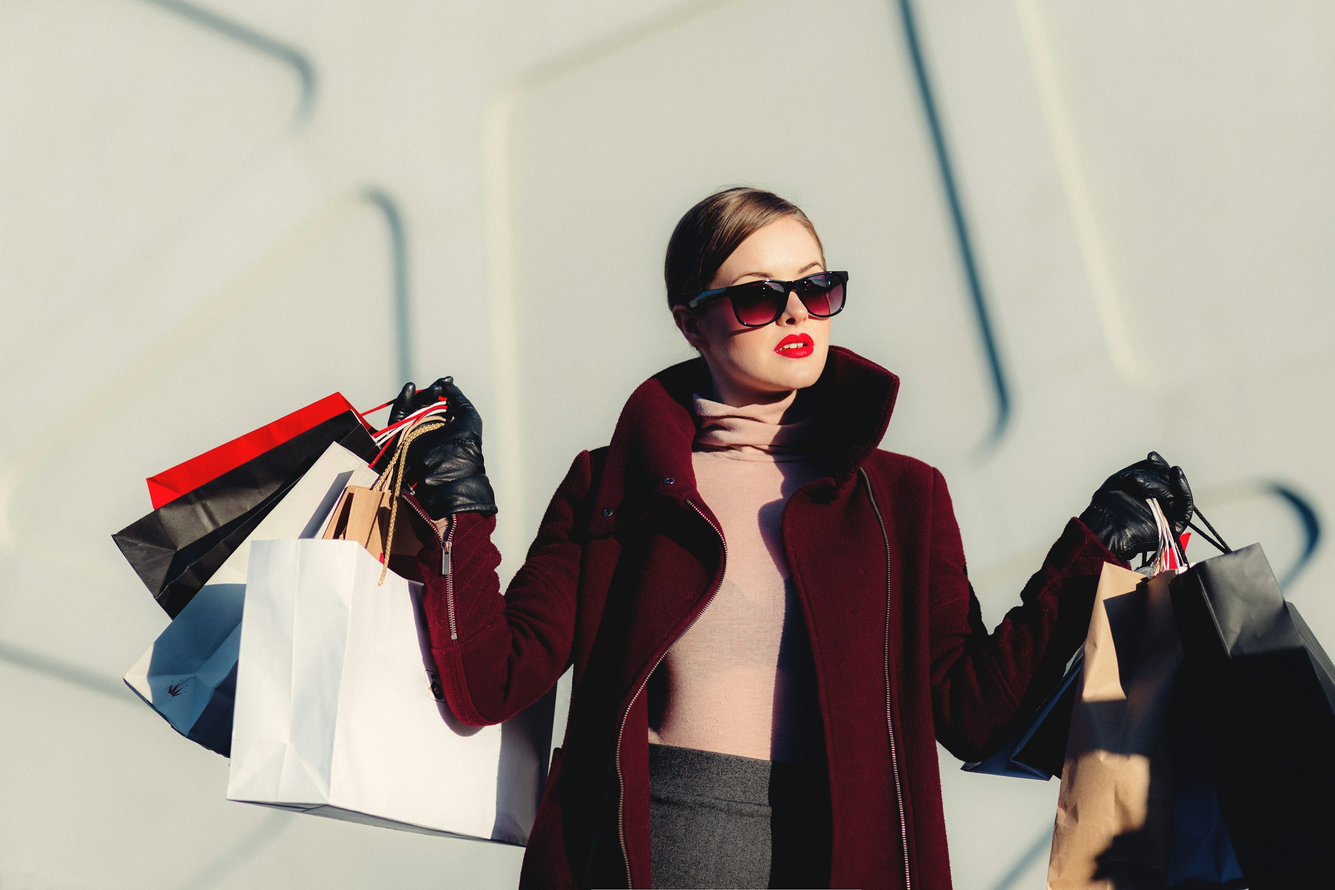
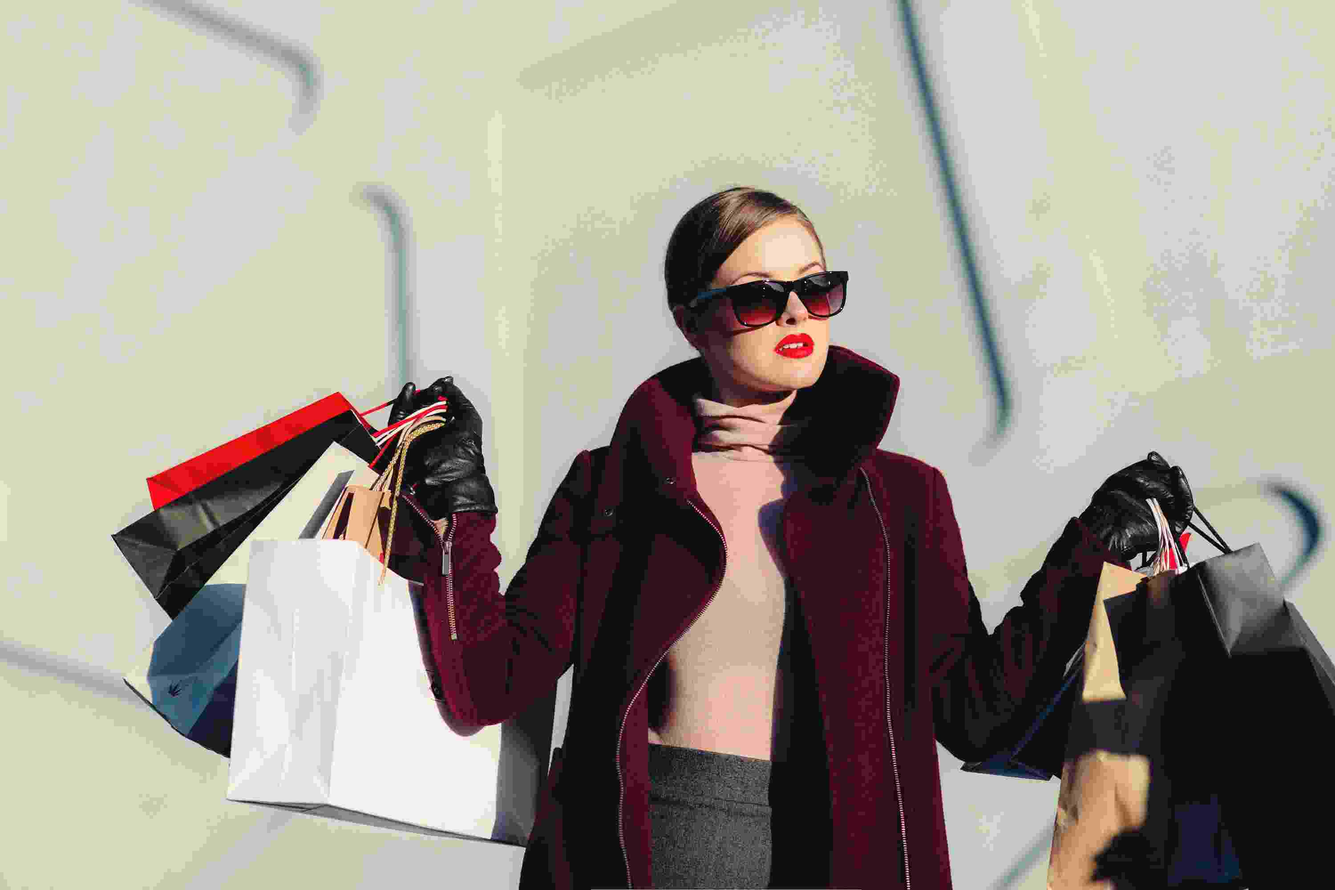
Compressed size images

diff --git a/directory.html b/directory.html
@@ -3,37 +3,38 @@
 <head>
   <meta charset="UTF-8">
   <meta name="viewport" content="width=device-width, initial-scale=1.0">
-  <meta name="description" content="Accra Chamber of Commerce - Directory of Members">
+  <meta name="description" content="Directory of member businesses in Accra – Accra Metropolitan Chamber of Commerce">
   <meta name="author" content="Bruce Nyeha">
   <title>Accra Chamber of Commerce | Directory</title>
 
   <!-- Favicon -->
-  <link rel="icon" href="../images/favicon.ico" type="image/x-icon">
+  <link rel="icon" href="images/logo.jpg" type="image/jpeg">
 
-  <!-- Open Graph / Facebook Meta -->
-  <meta property="og:title" content="Accra Chamber of Commerce – Directory">
-  <meta property="og:description" content="Discover businesses in Accra – join our network today.">
-  <meta property="og:image" content="../images/accra-chamber-og.jpg">
-  <meta property="og:url" content="https://bruce-nyeha.github.io/wdd231/directory.html">
+  <!-- Open Graph Meta for Facebook sharing -->
+  <meta property="og:title" content="Accra Chamber of Commerce – Member Directory">
+  <meta property="og:description" content="Explore member businesses, services, and opportunities in Accra. Join the network today!">
+  <meta property="og:image" content="https://bruce-nyeha.github.io/wdd231/chamber/images/logo.jpg">
+  <meta property="og:url" content="https://bruce-nyeha.github.io/wdd231/chamber/directory.html">
+  <meta property="og:type" content="website">
 
   <!-- Normalize first -->
   <link rel="stylesheet" href="week02/chamber/styles/normalize.css">
-  <!-- Small screen styles -->
+  <!-- Mobile-first styles -->
   <link rel="stylesheet" href="week02/chamber/styles/small.css">
-  <!-- Large screen styles -->
+  <!-- Large-screen enhancements -->
   <link rel="stylesheet" href="week02/chamber/styles/large.css">
 </head>
 <body>
   <header>
     <img src="images/logo.jpg" alt="Accra Chamber of Commerce Logo" class="logo">
     <h1>Accra Metropolitan Chamber of Commerce</h1>
-    <button id="menuBtn">☰ Menu</button>
+    <button id="menuBtn" aria-label="Toggle navigation menu">☰</button>
   </header>
 
   <nav id="navMenu">
     <ul>
-      <li><a href="../directory.html">Home</a></li>
-      <li><a href="directory.html" class="active">Directory</a></li>
+      <li><a href="../index.html">Home</a></li>
+      <li><a href="directory.html" class="active" aria-current="page">Directory</a></li>
       <li><a href="#">Join</a></li>
     </ul>
   </nav>
@@ -42,8 +43,8 @@
     <h1>Member Directory</h1>
 
     <div class="view-toggle">
-      <button id="gridBtn" class="active">Grid View</button>
-      <button id="listBtn">List View</button>
+      <button id="gridBtn" class="active" aria-pressed="true">Grid View</button>
+      <button id="listBtn" aria-pressed="false">List View</button>
     </div>
 
     <section id="members" class="member-grid"></section>

diff --git a/week02/chamber/scripts/directory.js b/week02/chamber/scripts/directory.js
@@ -3,12 +3,12 @@
 async function loadMembers() {
   try {
     const response = await fetch('week02/chamber/data/members.json');
-    if (!response.ok) throw new Error('Failed to load members');
+    if (!response.ok) throw new Error(`Failed to load members: ${response.status}`);
     const members = await response.json();
     displayMembers(members);
   } catch (error) {
-    console.error('Error:', error);
-    document.getElementById('members').innerHTML = '<p>Error loading members. Please try again later.</p>';
+    console.error('Error loading members:', error);
+    document.getElementById('members').innerHTML = '<p style="color:red; text-align:center; padding:2rem;">Error loading members. Please try again later.</p>';
   }
 }
 
@@ -20,12 +20,12 @@ function displayMembers(members) {
     const card = document.createElement('div');
     card.classList.add('member-card');
     card.innerHTML = `
-      <img src="images/${member.images}" alt="${member.name}" loading="lazy">
+      <img src="images/${member.images}" alt="${member.name} business logo" loading="lazy">
       <h3>${member.name}</h3>
       <p><strong>Address:</strong> ${member.address}</p>
       <p><strong>Phone:</strong> ${member.phone}</p>
       <p><strong>Membership:</strong> ${member.membership}</p>
-      <a href="${member.website}" target="_blank">Visit Website</a>
+      <a href="${member.website}" target="_blank" rel="noopener noreferrer">Visit Website</a>
     `;
     container.appendChild(card);
   });
@@ -40,15 +40,28 @@ gridBtn.addEventListener('click', () => {
   memberContainer.classList.remove('list-view');
   gridBtn.classList.add('active');
   listBtn.classList.remove('active');
+  gridBtn.setAttribute('aria-pressed', 'true');
+  listBtn.setAttribute('aria-pressed', 'false');
 });
 
 listBtn.addEventListener('click', () => {
   memberContainer.classList.add('list-view');
   listBtn.classList.add('active');
   gridBtn.classList.remove('active');
+  listBtn.setAttribute('aria-pressed', 'true');
+  gridBtn.setAttribute('aria-pressed', 'false');
 });
 
-// Load on page start
+// Hamburger menu toggle (for mobile)
+const menuBtn = document.getElementById('menuBtn');
+const navMenu = document.getElementById('navMenu');
+menuBtn.addEventListener('click', () => {
+  navMenu.classList.toggle('show');
+});
+
+// Load members on page start
 loadMembers();
 
+// Dynamic footer dates
+document.getElementById("year").textContent = new Date().getFullYear();
 document.getElementById("lastModified").textContent = document.lastModified;

diff --git a/week02/chamber/styles/small.css b/week02/chamber/styles/small.css
@@ -1,3 +1,11 @@
+/* chamber/styles/small.css - Mobile-first */
+
+* {
+  margin: 0;
+  padding: 0;
+  box-sizing: border-box;
+}
+
 body {
   font-family: 'Inter', sans-serif;
   line-height: 1.6;
@@ -52,10 +60,16 @@ nav ul {
 
 nav a {
   display: block;
-  color: white;
+  color: #eee; /* Improved contrast on dark background */
   text-decoration: none;
   padding: 1rem;
   text-align: center;
+}
+
+nav a.active {
+  background: #FCD116;
+  color: #006B3F;
+  font-weight: bold;
 }
 
 main {
@@ -81,7 +95,7 @@ main {
 
 .view-toggle button.active {
   background: #FCD116;
-  color: #006B3F;
+  color: #000; /* Black text for contrast */
 }
 
 .member-grid {
@@ -105,6 +119,10 @@ main {
   border-radius: 8px;
 }
 
+.list-view .member-card img {
+  display: none; /* Hide images in list view */
+}
+
 .member-card h3 {
   color: #006B3F;
   margin: 1rem 0 0.5rem;
@@ -121,23 +139,4 @@ footer {
   text-align: center;
   padding: 2rem;
   margin-top: 3rem;
-}
-
-
-.member-grid.list-view {
-  display: block;
-}
-
-.member-grid.list-view .member-card {
-  display: flex;
-  flex-direction: row;
-  align-items: center;
-  gap: 1.5rem;
-  text-align: left;
-  margin-bottom: 2rem;
-}
-
-.member-grid.list-view .member-card img {
-  width: 120px;
-  height: 120px;
 }
